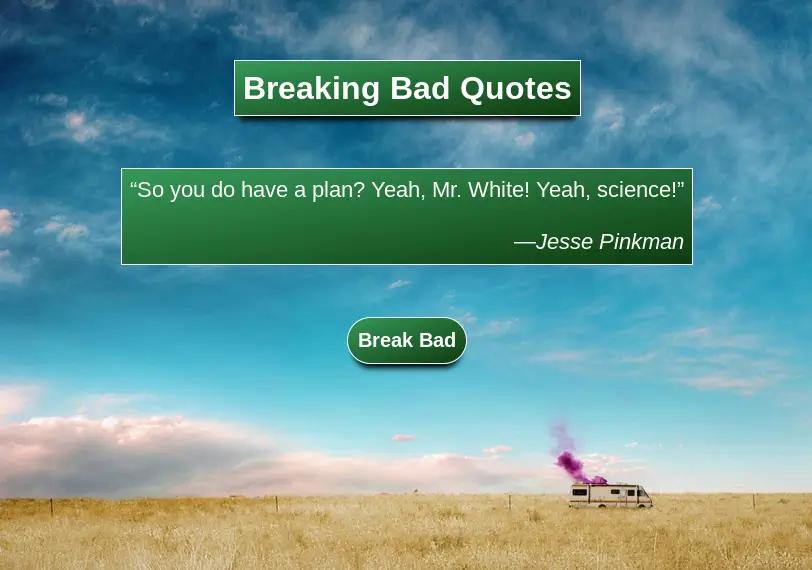
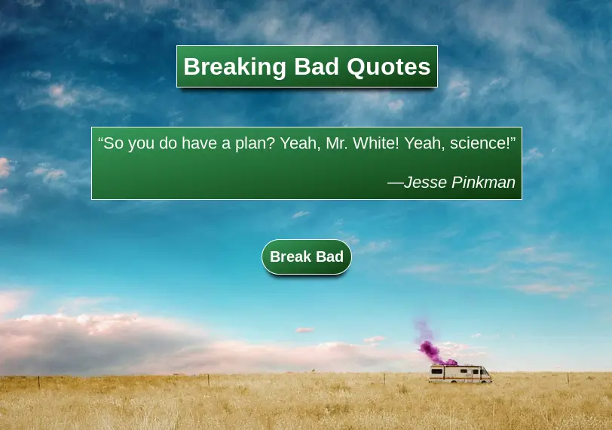
Added a source tag to index.html to display a smaller image on mobile

diff --git a/index.html b/index.html
@@ -189,7 +189,11 @@
             <a
               href="https://codepen.io/localhostwiththemost/pen/OJZwrmQ"
               target="_blank"
-              ><img src="img/quotegen.webp" alt="Breaking Bad Quotes Generator"
+            >
+              <source
+                media="(min-width: 600px)"
+                srcset="img/quotegen-mobile.webp" />
+              <img src="img/quotegen.webp" alt="Breaking Bad Quotes Generator"
             /></a>
           </div>
           <div class="slide">
